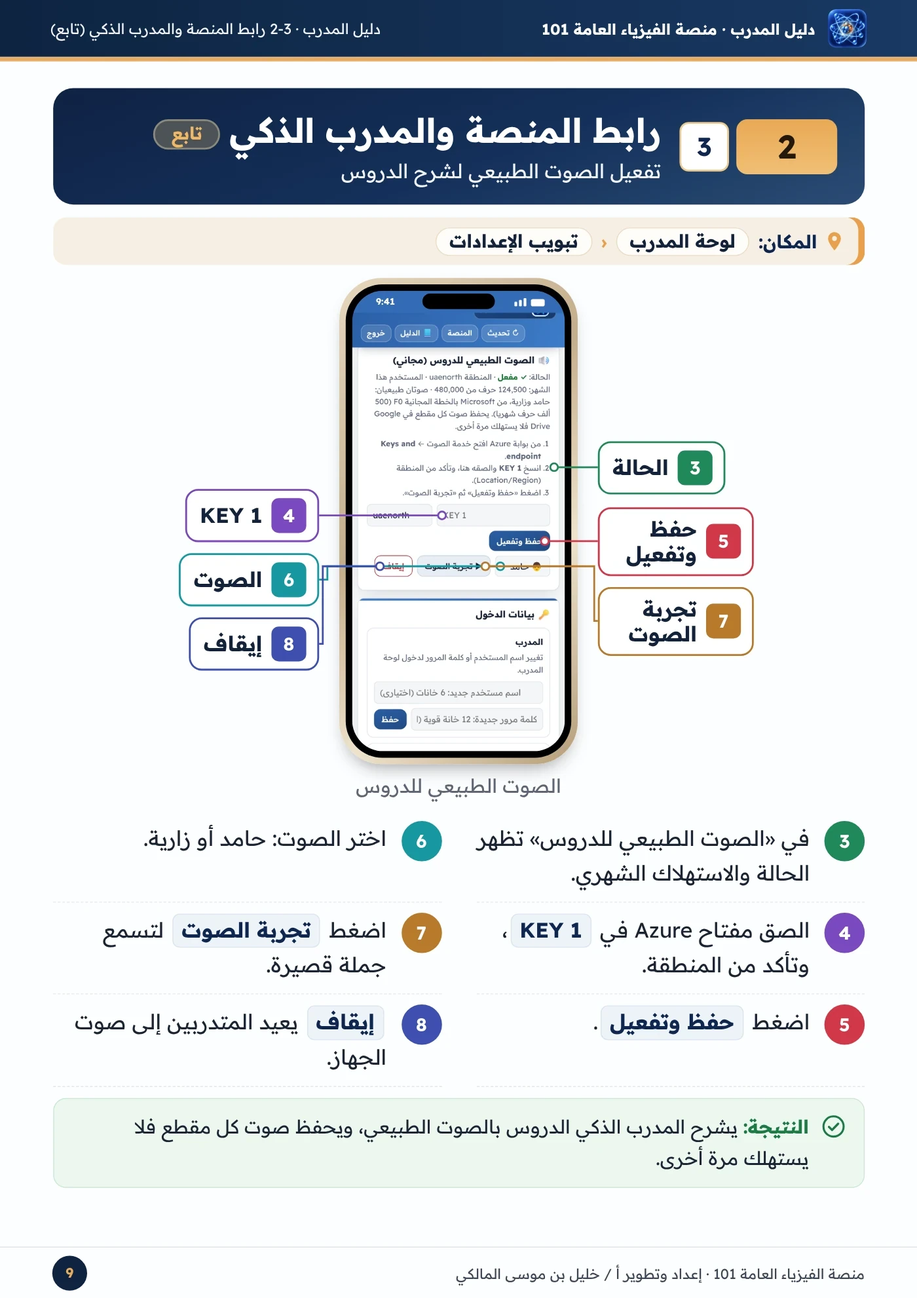
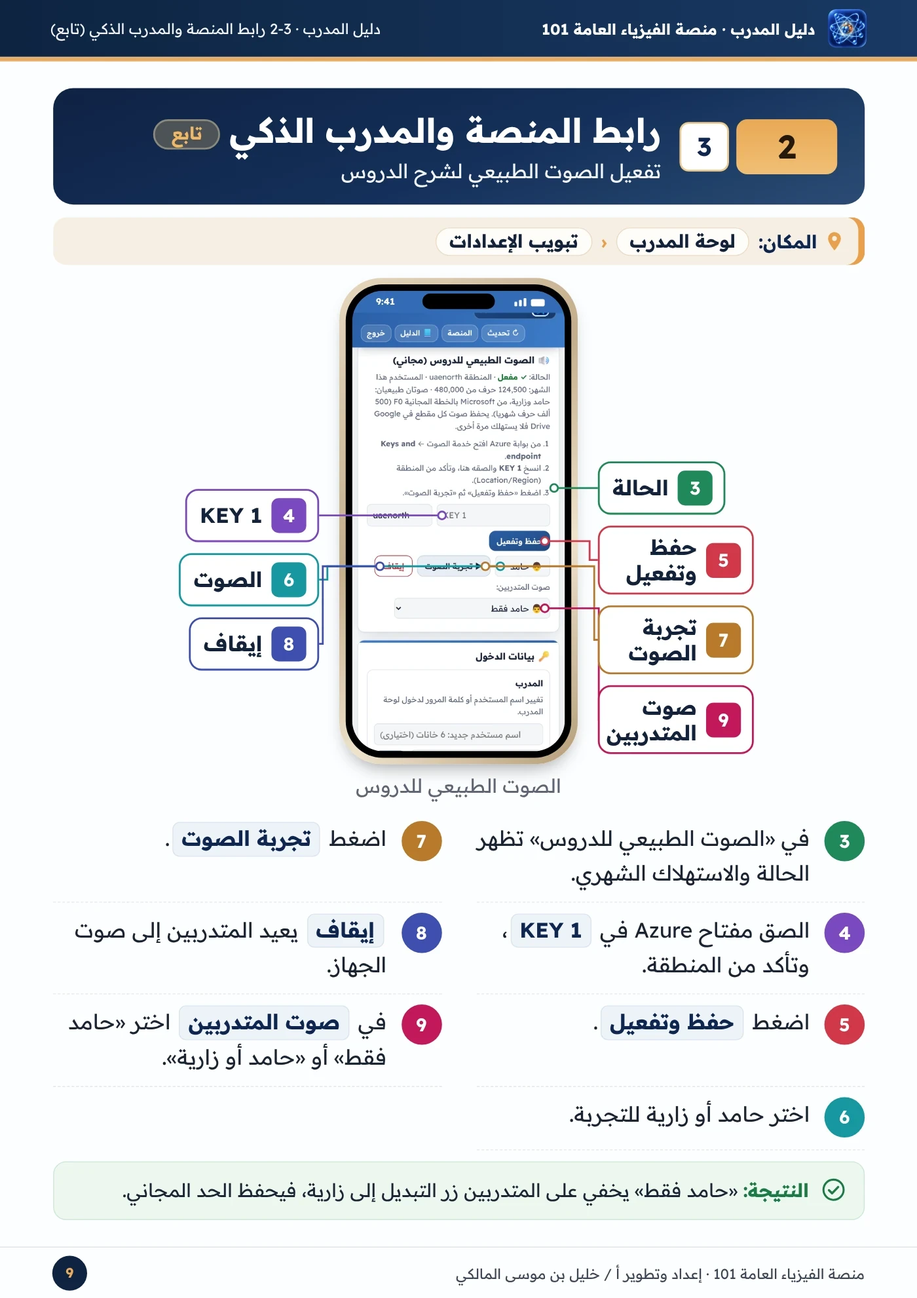
دليل المدرب: خيار صوت المتدربين، وتسريع فتح الإعدادات، وتوحيد الأرقام في العناوين
Claude-Session: https://claude.ai/code/session_01PuEvYFgE27idXTycqsFmp6

diff --git a/guide.html b/guide.html
@@ -18,7 +18,7 @@ main{max-width:920px;margin:0 auto;padding:12px 10px 40px;padding-left:max(10px,
 <header><img src="icon-192.png" alt=""><h1>دليل المتدرب</h1><button type="button" id="tg">☰ الفهرس</button><a href="index.html">↩ المنصة</a></header>
 <main><nav class="toc" id="toc"><h2>☰ محتويات دليل المتدرب</h2><a href="#p2"><span>•</span>المتطلبات قبل البدء</a><div class="stg"><b>1</b>مرحلة البدء</div><a href="#p3"><span>1-1</span>البدء: الدخول وتعيين كلمة المرور</a><a href="#p7"><span>1-2</span>الصفحة الرئيسية واختيار الدرس</a><div class="stg"><b>2</b>مرحلة الشرح</div><a href="#p8"><span>2-1</span>شرح الدرس على السبورة مع المدرب الذكي</a><a href="#p12"><span>2-2</span>مهام الدروس</a><div class="stg"><b>3</b>مرحلة التدريب</div><a href="#p13"><span>3-1</span>الأمثلة والتمارين التفاعلية</a><a href="#p17"><span>3-2</span>اختبر نفسك والآلة الحاسبة</a><a href="#p19"><span>3-3</span>التجارب العملية التفاعلية</a><a href="#p22"><span>3-4</span>المساعد الذكي وتقييم الدرس</a><div class="stg"><b>4</b>مرحلة الإنهاء</div><a href="#p25"><span>4-1</span>إنهاء الدرس والانتقال للدرس التالي</a><a href="#p27"><span>4-2</span>الإعدادات: الصوت والوضع الليلي</a><div class="stg"><b>5</b>مرحلة الاختبارات والخروج</div><a href="#p29"><span>5-1</span>الاختبارات التجريبية</a><a href="#p33"><span>5-2</span>تسجيل الخروج</a></nav>
 <p class="note">كبر الصفحة بإصبعين لقراءة التفاصيل.</p>
-<img id="p1" class="pg" src="gtr-01.webp?v=1104l" width="1000" height="1415" alt="دليل المتدرب - صفحة 1" loading="eager" decoding="async"><img id="p2" class="pg" src="gtr-02.webp?v=1104l" width="1000" height="1415" alt="دليل المتدرب - صفحة 2" loading="eager" decoding="async"><img id="p3" class="pg" src="gtr-03.webp?v=1104l" width="1000" height="1415" alt="دليل المتدرب - صفحة 3" loading="lazy" decoding="async"><img id="p4" class="pg" src="gtr-04.webp?v=1104l" width="1000" height="1415" alt="دليل المتدرب - صفحة 4" loading="lazy" decoding="async"><img id="p5" class="pg" src="gtr-05.webp?v=1104l" width="1000" height="1415" alt="دليل المتدرب - صفحة 5" loading="lazy" decoding="async"><img id="p6" class="pg" src="gtr-06.webp?v=1104l" width="1000" height="1415" alt="دليل المتدرب - صفحة 6" loading="lazy" decoding="async"><img id="p7" class="pg" src="gtr-07.webp?v=1104l" width="1000" height="1415" alt="دليل المتدرب - صفحة 7" loading="lazy" decoding="async"><img id="p8" class="pg" src="gtr-08.webp?v=1104l" width="1000" height="1415" alt="دليل المتدرب - صفحة 8" loading="lazy" decoding="async"><img id="p9" class="pg" src="gtr-09.webp?v=1104l" width="1000" height="1415" alt="دليل المتدرب - صفحة 9" loading="lazy" decoding="async"><img id="p10" class="pg" src="gtr-10.webp?v=1104l" width="1000" height="1415" alt="دليل المتدرب - صفحة 10" loading="lazy" decoding="async"><img id="p11" class="pg" src="gtr-11.webp?v=1104l" width="1000" height="1415" alt="دليل المتدرب - صفحة 11" loading="lazy" decoding="async"><img id="p12" class="pg" src="gtr-12.webp?v=1104l" width="1000" height="1415" alt="دليل المتدرب - صفحة 12" loading="lazy" decoding="async"><img id="p13" class="pg" src="gtr-13.webp?v=1104l" width="1000" height="1415" alt="دليل المتدرب - صفحة 13" loading="lazy" decoding="async"><img id="p14" class="pg" src="gtr-14.webp?v=1104l" width="1000" height="1415" alt="دليل المتدرب - صفحة 14" loading="lazy" decoding="async"><img id="p15" class="pg" src="gtr-15.webp?v=1104l" width="1000" height="1415" alt="دليل المتدرب - صفحة 15" loading="lazy" decoding="async"><img id="p16" class="pg" src="gtr-16.webp?v=1104l" width="1000" height="1415" alt="دليل المتدرب - صفحة 16" loading="lazy" decoding="async"><img id="p17" class="pg" src="gtr-17.webp?v=1104l" width="1000" height="1415" alt="دليل المتدرب - صفحة 17" loading="lazy" decoding="async"><img id="p18" class="pg" src="gtr-18.webp?v=1104l" width="1000" height="1415" alt="دليل المتدرب - صفحة 18" loading="lazy" decoding="async"><img id="p19" class="pg" src="gtr-19.webp?v=1104l" width="1000" height="1415" alt="دليل المتدرب - صفحة 19" loading="lazy" decoding="async"><img id="p20" class="pg" src="gtr-20.webp?v=1104l" width="1000" height="1415" alt="دليل المتدرب - صفحة 20" loading="lazy" decoding="async"><img id="p21" class="pg" src="gtr-21.webp?v=1104l" width="1000" height="1415" alt="دليل المتدرب - صفحة 21" loading="lazy" decoding="async"><img id="p22" class="pg" src="gtr-22.webp?v=1104l" width="1000" height="1415" alt="دليل المتدرب - صفحة 22" loading="lazy" decoding="async"><img id="p23" class="pg" src="gtr-23.webp?v=1104l" width="1000" height="1415" alt="دليل المتدرب - صفحة 23" loading="lazy" decoding="async"><img id="p24" class="pg" src="gtr-24.webp?v=1104l" width="1000" height="1415" alt="دليل المتدرب - صفحة 24" loading="lazy" decoding="async"><img id="p25" class="pg" src="gtr-25.webp?v=1104l" width="1000" height="1415" alt="دليل المتدرب - صفحة 25" loading="lazy" decoding="async"><img id="p26" class="pg" src="gtr-26.webp?v=1104l" width="1000" height="1415" alt="دليل المتدرب - صفحة 26" loading="lazy" decoding="async"><img id="p27" class="pg" src="gtr-27.webp?v=1104l" width="1000" height="1415" alt="دليل المتدرب - صفحة 27" loading="lazy" decoding="async"><img id="p28" class="pg" src="gtr-28.webp?v=1104l" width="1000" height="1415" alt="دليل المتدرب - صفحة 28" loading="lazy" decoding="async"><img id="p29" class="pg" src="gtr-29.webp?v=1104l" width="1000" height="1415" alt="دليل المتدرب - صفحة 29" loading="lazy" decoding="async"><img id="p30" class="pg" src="gtr-30.webp?v=1104l" width="1000" height="1415" alt="دليل المتدرب - صفحة 30" loading="lazy" decoding="async"><img id="p31" class="pg" src="gtr-31.webp?v=1104l" width="1000" height="1415" alt="دليل المتدرب - صفحة 31" loading="lazy" decoding="async"><img id="p32" class="pg" src="gtr-32.webp?v=1104l" width="1000" height="1415" alt="دليل المتدرب - صفحة 32" loading="lazy" decoding="async"><img id="p33" class="pg" src="gtr-33.webp?v=1104l" width="1000" height="1415" alt="دليل المتدرب - صفحة 33" loading="lazy" decoding="async"></main>
+<img id="p1" class="pg" src="gtr-01.webp?v=1105a" width="1000" height="1415" alt="دليل المتدرب - صفحة 1" loading="eager" decoding="async"><img id="p2" class="pg" src="gtr-02.webp?v=1105a" width="1000" height="1415" alt="دليل المتدرب - صفحة 2" loading="eager" decoding="async"><img id="p3" class="pg" src="gtr-03.webp?v=1105a" width="1000" height="1415" alt="دليل المتدرب - صفحة 3" loading="lazy" decoding="async"><img id="p4" class="pg" src="gtr-04.webp?v=1105a" width="1000" height="1415" alt="دليل المتدرب - صفحة 4" loading="lazy" decoding="async"><img id="p5" class="pg" src="gtr-05.webp?v=1105a" width="1000" height="1415" alt="دليل المتدرب - صفحة 5" loading="lazy" decoding="async"><img id="p6" class="pg" src="gtr-06.webp?v=1105a" width="1000" height="1415" alt="دليل المتدرب - صفحة 6" loading="lazy" decoding="async"><img id="p7" class="pg" src="gtr-07.webp?v=1105a" width="1000" height="1415" alt="دليل المتدرب - صفحة 7" loading="lazy" decoding="async"><img id="p8" class="pg" src="gtr-08.webp?v=1105a" width="1000" height="1415" alt="دليل المتدرب - صفحة 8" loading="lazy" decoding="async"><img id="p9" class="pg" src="gtr-09.webp?v=1105a" width="1000" height="1415" alt="دليل المتدرب - صفحة 9" loading="lazy" decoding="async"><img id="p10" class="pg" src="gtr-10.webp?v=1105a" width="1000" height="1415" alt="دليل المتدرب - صفحة 10" loading="lazy" decoding="async"><img id="p11" class="pg" src="gtr-11.webp?v=1105a" width="1000" height="1415" alt="دليل المتدرب - صفحة 11" loading="lazy" decoding="async"><img id="p12" class="pg" src="gtr-12.webp?v=1105a" width="1000" height="1415" alt="دليل المتدرب - صفحة 12" loading="lazy" decoding="async"><img id="p13" class="pg" src="gtr-13.webp?v=1105a" width="1000" height="1415" alt="دليل المتدرب - صفحة 13" loading="lazy" decoding="async"><img id="p14" class="pg" src="gtr-14.webp?v=1105a" width="1000" height="1415" alt="دليل المتدرب - صفحة 14" loading="lazy" decoding="async"><img id="p15" class="pg" src="gtr-15.webp?v=1105a" width="1000" height="1415" alt="دليل المتدرب - صفحة 15" loading="lazy" decoding="async"><img id="p16" class="pg" src="gtr-16.webp?v=1105a" width="1000" height="1415" alt="دليل المتدرب - صفحة 16" loading="lazy" decoding="async"><img id="p17" class="pg" src="gtr-17.webp?v=1105a" width="1000" height="1415" alt="دليل المتدرب - صفحة 17" loading="lazy" decoding="async"><img id="p18" class="pg" src="gtr-18.webp?v=1105a" width="1000" height="1415" alt="دليل المتدرب - صفحة 18" loading="lazy" decoding="async"><img id="p19" class="pg" src="gtr-19.webp?v=1105a" width="1000" height="1415" alt="دليل المتدرب - صفحة 19" loading="lazy" decoding="async"><img id="p20" class="pg" src="gtr-20.webp?v=1105a" width="1000" height="1415" alt="دليل المتدرب - صفحة 20" loading="lazy" decoding="async"><img id="p21" class="pg" src="gtr-21.webp?v=1105a" width="1000" height="1415" alt="دليل المتدرب - صفحة 21" loading="lazy" decoding="async"><img id="p22" class="pg" src="gtr-22.webp?v=1105a" width="1000" height="1415" alt="دليل المتدرب - صفحة 22" loading="lazy" decoding="async"><img id="p23" class="pg" src="gtr-23.webp?v=1105a" width="1000" height="1415" alt="دليل المتدرب - صفحة 23" loading="lazy" decoding="async"><img id="p24" class="pg" src="gtr-24.webp?v=1105a" width="1000" height="1415" alt="دليل المتدرب - صفحة 24" loading="lazy" decoding="async"><img id="p25" class="pg" src="gtr-25.webp?v=1105a" width="1000" height="1415" alt="دليل المتدرب - صفحة 25" loading="lazy" decoding="async"><img id="p26" class="pg" src="gtr-26.webp?v=1105a" width="1000" height="1415" alt="دليل المتدرب - صفحة 26" loading="lazy" decoding="async"><img id="p27" class="pg" src="gtr-27.webp?v=1105a" width="1000" height="1415" alt="دليل المتدرب - صفحة 27" loading="lazy" decoding="async"><img id="p28" class="pg" src="gtr-28.webp?v=1105a" width="1000" height="1415" alt="دليل المتدرب - صفحة 28" loading="lazy" decoding="async"><img id="p29" class="pg" src="gtr-29.webp?v=1105a" width="1000" height="1415" alt="دليل المتدرب - صفحة 29" loading="lazy" decoding="async"><img id="p30" class="pg" src="gtr-30.webp?v=1105a" width="1000" height="1415" alt="دليل المتدرب - صفحة 30" loading="lazy" decoding="async"><img id="p31" class="pg" src="gtr-31.webp?v=1105a" width="1000" height="1415" alt="دليل المتدرب - صفحة 31" loading="lazy" decoding="async"><img id="p32" class="pg" src="gtr-32.webp?v=1105a" width="1000" height="1415" alt="دليل المتدرب - صفحة 32" loading="lazy" decoding="async"><img id="p33" class="pg" src="gtr-33.webp?v=1105a" width="1000" height="1415" alt="دليل المتدرب - صفحة 33" loading="lazy" decoding="async"></main>
 <button class="top" type="button" id="up" aria-label="إلى الأعلى">↑</button>
 <script>
 const T=document.getElementById('toc');document.getElementById('tg').onclick=()=>{T.hidden=false;T.scrollIntoView({behavior:'smooth'})};

diff --git a/teacher-guide.html b/teacher-guide.html
@@ -18,7 +18,7 @@ main{max-width:920px;margin:0 auto;padding:12px 10px 40px;padding-left:max(10px,
 <header><img src="icon-192.png" alt=""><h1>دليل المدرب</h1><button type="button" id="tg">☰ الفهرس</button><a href="teacher.html">↩ لوحة المدرب</a></header>
 <main><nav class="toc" id="toc"><h2>☰ محتويات دليل المدرب</h2><a href="#p2"><span>•</span>المتطلبات قبل البدء</a><div class="stg"><b>1</b>مرحلة الدخول</div><a href="#p3"><span>1-1</span>الدخول إلى لوحة المدرب</a><a href="#p5"><span>1-2</span>الخصوصية وموافقة المتدربين</a><div class="stg"><b>2</b>مرحلة الإعدادات</div><a href="#p6"><span>2-1</span>رمز التسجيل لأول دخول</a><a href="#p7"><span>2-2</span>إضافة الشعب</a><a href="#p8"><span>2-3</span>رابط المنصة والمدرب الذكي</a><a href="#p10"><span>2-4</span>بيانات الدخول</a><a href="#p11"><span>2-5</span>إدارة المتدربين</a><a href="#p12"><span>2-6</span>توزيع نقاط مهام الدروس</a><div class="stg"><b>3</b>مرحلة متابعة الدروس</div><a href="#p13"><span>3-1</span>متابعة الدروس</a><a href="#p14"><span>3-2</span>سجل متابعة المتدرب</a><div class="stg"><b>4</b>مرحلة مهام الدروس</div><a href="#p15"><span>4-1</span>نقاط مهام الدروس</a><a href="#p16"><span>4-2</span>المؤشرات والمتابعة</a><a href="#p17"><span>4-3</span>بطاقة المتدرب</a><div class="stg"><b>5</b>مرحلة الاختبارات</div><a href="#p18"><span>5-1</span>الاختبارات: الشعب والمتدربون</a><a href="#p19"><span>5-2</span>فتح الاختبار والرمز والمدة</a><a href="#p20"><span>5-3</span>موعد الاختبار والإعدادات العامة</a><a href="#p21"><span>5-4</span>سجل نتائج الاختبارات</a><a href="#p22"><span>5-5</span>إعادة الاختبار والسماح بجهاز آخر</a><a href="#p23"><span>5-6</span>أوراق المتدربين</a><a href="#p24"><span>5-7</span>الورقة بعد الحل والطباعة</a><a href="#p25"><span>5-8</span>بنك الأسئلة وتصدير Word</a><div class="stg"><b>6</b>مرحلة الإحصائيات والتقارير</div><a href="#p26"><span>6-1</span>الإحصائيات والتقارير</a><a href="#p27"><span>6-2</span>التقييم ومدة شرح الدروس</a><div class="stg"><b>7</b>مرحلة الخروج</div><a href="#p28"><span>7-1</span>تسجيل الخروج</a></nav>
 <p class="note">كبر الصفحة بإصبعين لقراءة التفاصيل.</p>
-<img id="p1" class="pg" src="gtc-01.webp?v=1104l" width="1000" height="1415" alt="دليل المدرب - صفحة 1" loading="eager" decoding="async"><img id="p2" class="pg" src="gtc-02.webp?v=1104l" width="1000" height="1415" alt="دليل المدرب - صفحة 2" loading="eager" decoding="async"><img id="p3" class="pg" src="gtc-03.webp?v=1104l" width="1000" height="1415" alt="دليل المدرب - صفحة 3" loading="lazy" decoding="async"><img id="p4" class="pg" src="gtc-04.webp?v=1104l" width="1000" height="1415" alt="دليل المدرب - صفحة 4" loading="lazy" decoding="async"><img id="p5" class="pg" src="gtc-05.webp?v=1104l" width="1000" height="1415" alt="دليل المدرب - صفحة 5" loading="lazy" decoding="async"><img id="p6" class="pg" src="gtc-06.webp?v=1104l" width="1000" height="1415" alt="دليل المدرب - صفحة 6" loading="lazy" decoding="async"><img id="p7" class="pg" src="gtc-07.webp?v=1104l" width="1000" height="1415" alt="دليل المدرب - صفحة 7" loading="lazy" decoding="async"><img id="p8" class="pg" src="gtc-08.webp?v=1104l" width="1000" height="1415" alt="دليل المدرب - صفحة 8" loading="lazy" decoding="async"><img id="p9" class="pg" src="gtc-09.webp?v=1104l" width="1000" height="1415" alt="دليل المدرب - صفحة 9" loading="lazy" decoding="async"><img id="p10" class="pg" src="gtc-10.webp?v=1104l" width="1000" height="1415" alt="دليل المدرب - صفحة 10" loading="lazy" decoding="async"><img id="p11" class="pg" src="gtc-11.webp?v=1104l" width="1000" height="1415" alt="دليل المدرب - صفحة 11" loading="lazy" decoding="async"><img id="p12" class="pg" src="gtc-12.webp?v=1104l" width="1000" height="1415" alt="دليل المدرب - صفحة 12" loading="lazy" decoding="async"><img id="p13" class="pg" src="gtc-13.webp?v=1104l" width="1000" height="1415" alt="دليل المدرب - صفحة 13" loading="lazy" decoding="async"><img id="p14" class="pg" src="gtc-14.webp?v=1104l" width="1000" height="1415" alt="دليل المدرب - صفحة 14" loading="lazy" decoding="async"><img id="p15" class="pg" src="gtc-15.webp?v=1104l" width="1000" height="1415" alt="دليل المدرب - صفحة 15" loading="lazy" decoding="async"><img id="p16" class="pg" src="gtc-16.webp?v=1104l" width="1000" height="1415" alt="دليل المدرب - صفحة 16" loading="lazy" decoding="async"><img id="p17" class="pg" src="gtc-17.webp?v=1104l" width="1000" height="1415" alt="دليل المدرب - صفحة 17" loading="lazy" decoding="async"><img id="p18" class="pg" src="gtc-18.webp?v=1104l" width="1000" height="1415" alt="دليل المدرب - صفحة 18" loading="lazy" decoding="async"><img id="p19" class="pg" src="gtc-19.webp?v=1104l" width="1000" height="1415" alt="دليل المدرب - صفحة 19" loading="lazy" decoding="async"><img id="p20" class="pg" src="gtc-20.webp?v=1104l" width="1000" height="1415" alt="دليل المدرب - صفحة 20" loading="lazy" decoding="async"><img id="p21" class="pg" src="gtc-21.webp?v=1104l" width="1000" height="1415" alt="دليل المدرب - صفحة 21" loading="lazy" decoding="async"><img id="p22" class="pg" src="gtc-22.webp?v=1104l" width="1000" height="1415" alt="دليل المدرب - صفحة 22" loading="lazy" decoding="async"><img id="p23" class="pg" src="gtc-23.webp?v=1104l" width="1000" height="1415" alt="دليل المدرب - صفحة 23" loading="lazy" decoding="async"><img id="p24" class="pg" src="gtc-24.webp?v=1104l" width="1000" height="1415" alt="دليل المدرب - صفحة 24" loading="lazy" decoding="async"><img id="p25" class="pg" src="gtc-25.webp?v=1104l" width="1000" height="1415" alt="دليل المدرب - صفحة 25" loading="lazy" decoding="async"><img id="p26" class="pg" src="gtc-26.webp?v=1104l" width="1000" height="1415" alt="دليل المدرب - صفحة 26" loading="lazy" decoding="async"><img id="p27" class="pg" src="gtc-27.webp?v=1104l" width="1000" height="1415" alt="دليل المدرب - صفحة 27" loading="lazy" decoding="async"><img id="p28" class="pg" src="gtc-28.webp?v=1104l" width="1000" height="1415" alt="دليل المدرب - صفحة 28" loading="lazy" decoding="async"></main>
+<img id="p1" class="pg" src="gtc-01.webp?v=1105a" width="1000" height="1415" alt="دليل المدرب - صفحة 1" loading="eager" decoding="async"><img id="p2" class="pg" src="gtc-02.webp?v=1105a" width="1000" height="1415" alt="دليل المدرب - صفحة 2" loading="eager" decoding="async"><img id="p3" class="pg" src="gtc-03.webp?v=1105a" width="1000" height="1415" alt="دليل المدرب - صفحة 3" loading="lazy" decoding="async"><img id="p4" class="pg" src="gtc-04.webp?v=1105a" width="1000" height="1415" alt="دليل المدرب - صفحة 4" loading="lazy" decoding="async"><img id="p5" class="pg" src="gtc-05.webp?v=1105a" width="1000" height="1415" alt="دليل المدرب - صفحة 5" loading="lazy" decoding="async"><img id="p6" class="pg" src="gtc-06.webp?v=1105a" width="1000" height="1415" alt="دليل المدرب - صفحة 6" loading="lazy" decoding="async"><img id="p7" class="pg" src="gtc-07.webp?v=1105a" width="1000" height="1415" alt="دليل المدرب - صفحة 7" loading="lazy" decoding="async"><img id="p8" class="pg" src="gtc-08.webp?v=1105a" width="1000" height="1415" alt="دليل المدرب - صفحة 8" loading="lazy" decoding="async"><img id="p9" class="pg" src="gtc-09.webp?v=1105a" width="1000" height="1415" alt="دليل المدرب - صفحة 9" loading="lazy" decoding="async"><img id="p10" class="pg" src="gtc-10.webp?v=1105a" width="1000" height="1415" alt="دليل المدرب - صفحة 10" loading="lazy" decoding="async"><img id="p11" class="pg" src="gtc-11.webp?v=1105a" width="1000" height="1415" alt="دليل المدرب - صفحة 11" loading="lazy" decoding="async"><img id="p12" class="pg" src="gtc-12.webp?v=1105a" width="1000" height="1415" alt="دليل المدرب - صفحة 12" loading="lazy" decoding="async"><img id="p13" class="pg" src="gtc-13.webp?v=1105a" width="1000" height="1415" alt="دليل المدرب - صفحة 13" loading="lazy" decoding="async"><img id="p14" class="pg" src="gtc-14.webp?v=1105a" width="1000" height="1415" alt="دليل المدرب - صفحة 14" loading="lazy" decoding="async"><img id="p15" class="pg" src="gtc-15.webp?v=1105a" width="1000" height="1415" alt="دليل المدرب - صفحة 15" loading="lazy" decoding="async"><img id="p16" class="pg" src="gtc-16.webp?v=1105a" width="1000" height="1415" alt="دليل المدرب - صفحة 16" loading="lazy" decoding="async"><img id="p17" class="pg" src="gtc-17.webp?v=1105a" width="1000" height="1415" alt="دليل المدرب - صفحة 17" loading="lazy" decoding="async"><img id="p18" class="pg" src="gtc-18.webp?v=1105a" width="1000" height="1415" alt="دليل المدرب - صفحة 18" loading="lazy" decoding="async"><img id="p19" class="pg" src="gtc-19.webp?v=1105a" width="1000" height="1415" alt="دليل المدرب - صفحة 19" loading="lazy" decoding="async"><img id="p20" class="pg" src="gtc-20.webp?v=1105a" width="1000" height="1415" alt="دليل المدرب - صفحة 20" loading="lazy" decoding="async"><img id="p21" class="pg" src="gtc-21.webp?v=1105a" width="1000" height="1415" alt="دليل المدرب - صفحة 21" loading="lazy" decoding="async"><img id="p22" class="pg" src="gtc-22.webp?v=1105a" width="1000" height="1415" alt="دليل المدرب - صفحة 22" loading="lazy" decoding="async"><img id="p23" class="pg" src="gtc-23.webp?v=1105a" width="1000" height="1415" alt="دليل المدرب - صفحة 23" loading="lazy" decoding="async"><img id="p24" class="pg" src="gtc-24.webp?v=1105a" width="1000" height="1415" alt="دليل المدرب - صفحة 24" loading="lazy" decoding="async"><img id="p25" class="pg" src="gtc-25.webp?v=1105a" width="1000" height="1415" alt="دليل المدرب - صفحة 25" loading="lazy" decoding="async"><img id="p26" class="pg" src="gtc-26.webp?v=1105a" width="1000" height="1415" alt="دليل المدرب - صفحة 26" loading="lazy" decoding="async"><img id="p27" class="pg" src="gtc-27.webp?v=1105a" width="1000" height="1415" alt="دليل المدرب - صفحة 27" loading="lazy" decoding="async"><img id="p28" class="pg" src="gtc-28.webp?v=1105a" width="1000" height="1415" alt="دليل المدرب - صفحة 28" loading="lazy" decoding="async"></main>
 <button class="top" type="button" id="up" aria-label="إلى الأعلى">↑</button>
 <script>
 const T=document.getElementById('toc');document.getElementById('tg').onclick=()=>{T.hidden=false;T.scrollIntoView({behavior:'smooth'})};

diff --git a/fixedai.js b/fixedai.js
@@ -147,3 +147,11 @@ setInterval(function(){if(!L)return;var B=document.querySelector('.board');if(B&
 apply();
 try{if(typeof API!=='undefined'&&API)fetch(API,{redirect:'follow'}).then(function(r){return r.json()}).then(function(r){if(r&&r.ok&&'vlock' in r)set(r.vlock)}).catch(function(){})}catch(e){}
 })();
+
+/* 5 نوفمبر: توحيد الأرقام في العناوين إلى الإنجليزية (مثال ١ ← مثال 1) في الدروس والسبورة */
+(function(){
+var AD=/[٠-٩]/;var conv=function(s){return s.replace(/[٠-٩]/g,function(d){return '٠١٢٣٤٥٦٧٨٩'.indexOf(d)})};
+var SEL='#view h1,#view h2,#view h3,#view h4,.board h1,.board h2,.board h3,.board h4';
+var fix=function(){try{document.querySelectorAll(SEL).forEach(function(h){if(!AD.test(h.textContent))return;var w=document.createTreeWalker(h,NodeFilter.SHOW_TEXT);var n;while(n=w.nextNode()){if(AD.test(n.nodeValue))n.nodeValue=conv(n.nodeValue)}})}catch(e){}};
+var t=0;new MutationObserver(function(){if(t)return;t=setTimeout(function(){t=0;fix()},60)}).observe(document.body,{childList:true,subtree:true,characterData:true});fix();
+})();

diff --git a/teacher.html b/teacher.html
@@ -797,7 +797,7 @@ async function drawRatings(){
 
 async function drawAI(){
   const m=$(tab==='settings'?'#aiSet':'#main');if(!m)return;m.innerHTML='<p class="empty"><span class="spin"></span></p>';
-  let r,ti={};try{[r,ti]=await Promise.all([api({a:'tquestions',token:TOKEN,sectionId:secFilter==='all'?'':secFilter}),api({a:'ttsinfo',token:TOKEN}).catch(()=>({}))])}catch(e){m.innerHTML='<p class="empty">تعذر الاتصال بالخادم.</p>';return}
+  let r={ok:true,questions:[]},ti={};try{ti=await api({a:'ttsinfo',token:TOKEN})}catch(e){m.innerHTML='<p class="empty">تعذر الاتصال بالخادم.</p>';return}
   if(!r.ok){m.innerHTML=`<p class="empty">${esc(errText(r.error))}</p>`;return}
   const nm=Object.fromEntries(DATA.students.map(s=>[s.id,s.name]));nm.TEACHER='المدرب';nm.DEMO='حساب المعاينة';
   const opts=`<option value="all">كل الشعب</option>`+DATA.sections.map(s=>`<option value="${esc(s.id)}" ${secFilter===s.id?'selected':''}>${esc(s.name)}</option>`).join('');

diff --git a/index.html b/index.html
@@ -3875,5 +3875,5 @@ new MutationObserver(function(){var B=document.querySelector('.board');if(B&&B._
 setInterval(function(){var B=document.querySelector('.board');if(B&&B._p102&&!B._p103)setup(B)},500);
 })();
 </script>
-<script src="fixeddata.js?v=1"></script><script src="fixedai.js?v=4"></script></body>
+<script src="fixeddata.js?v=1"></script><script src="fixedai.js?v=5"></script></body>
 </html>
